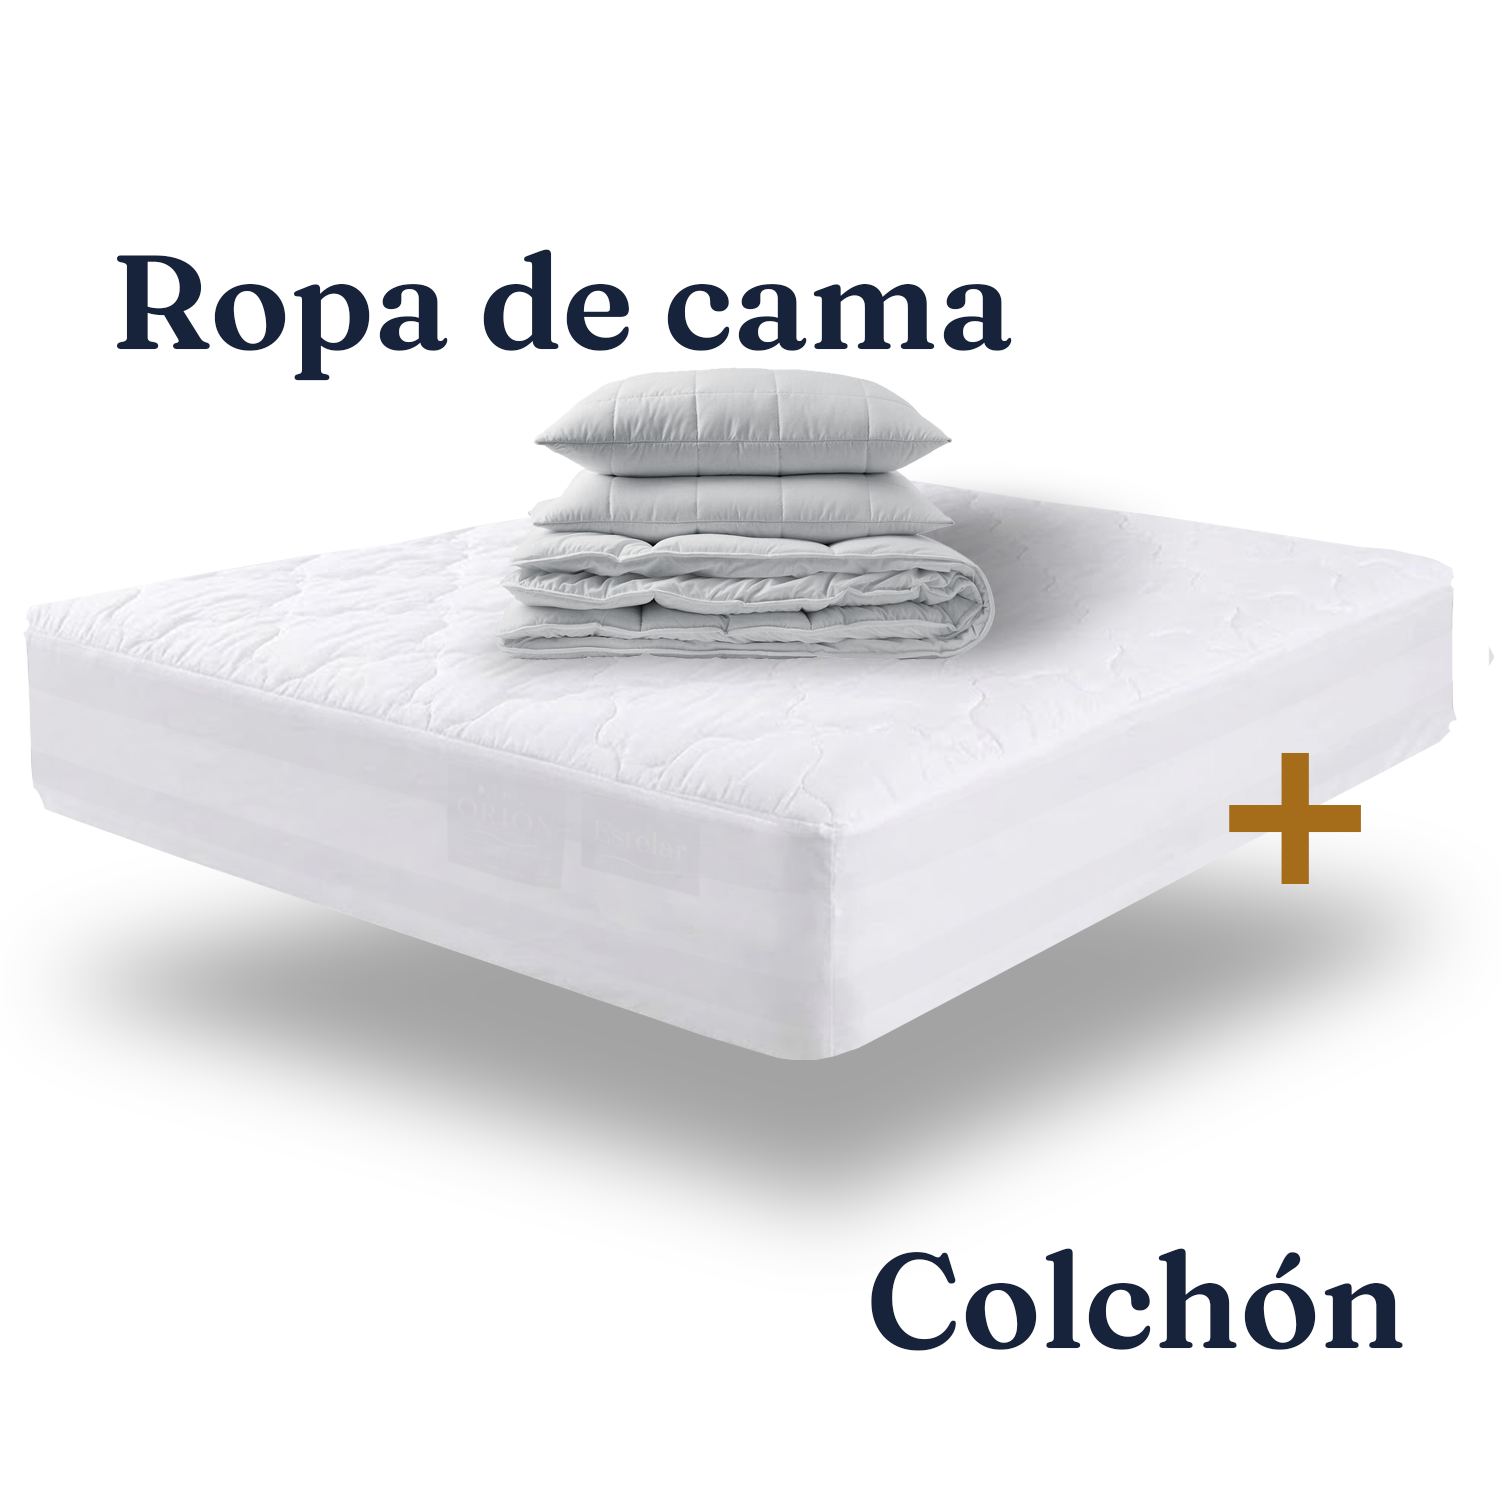
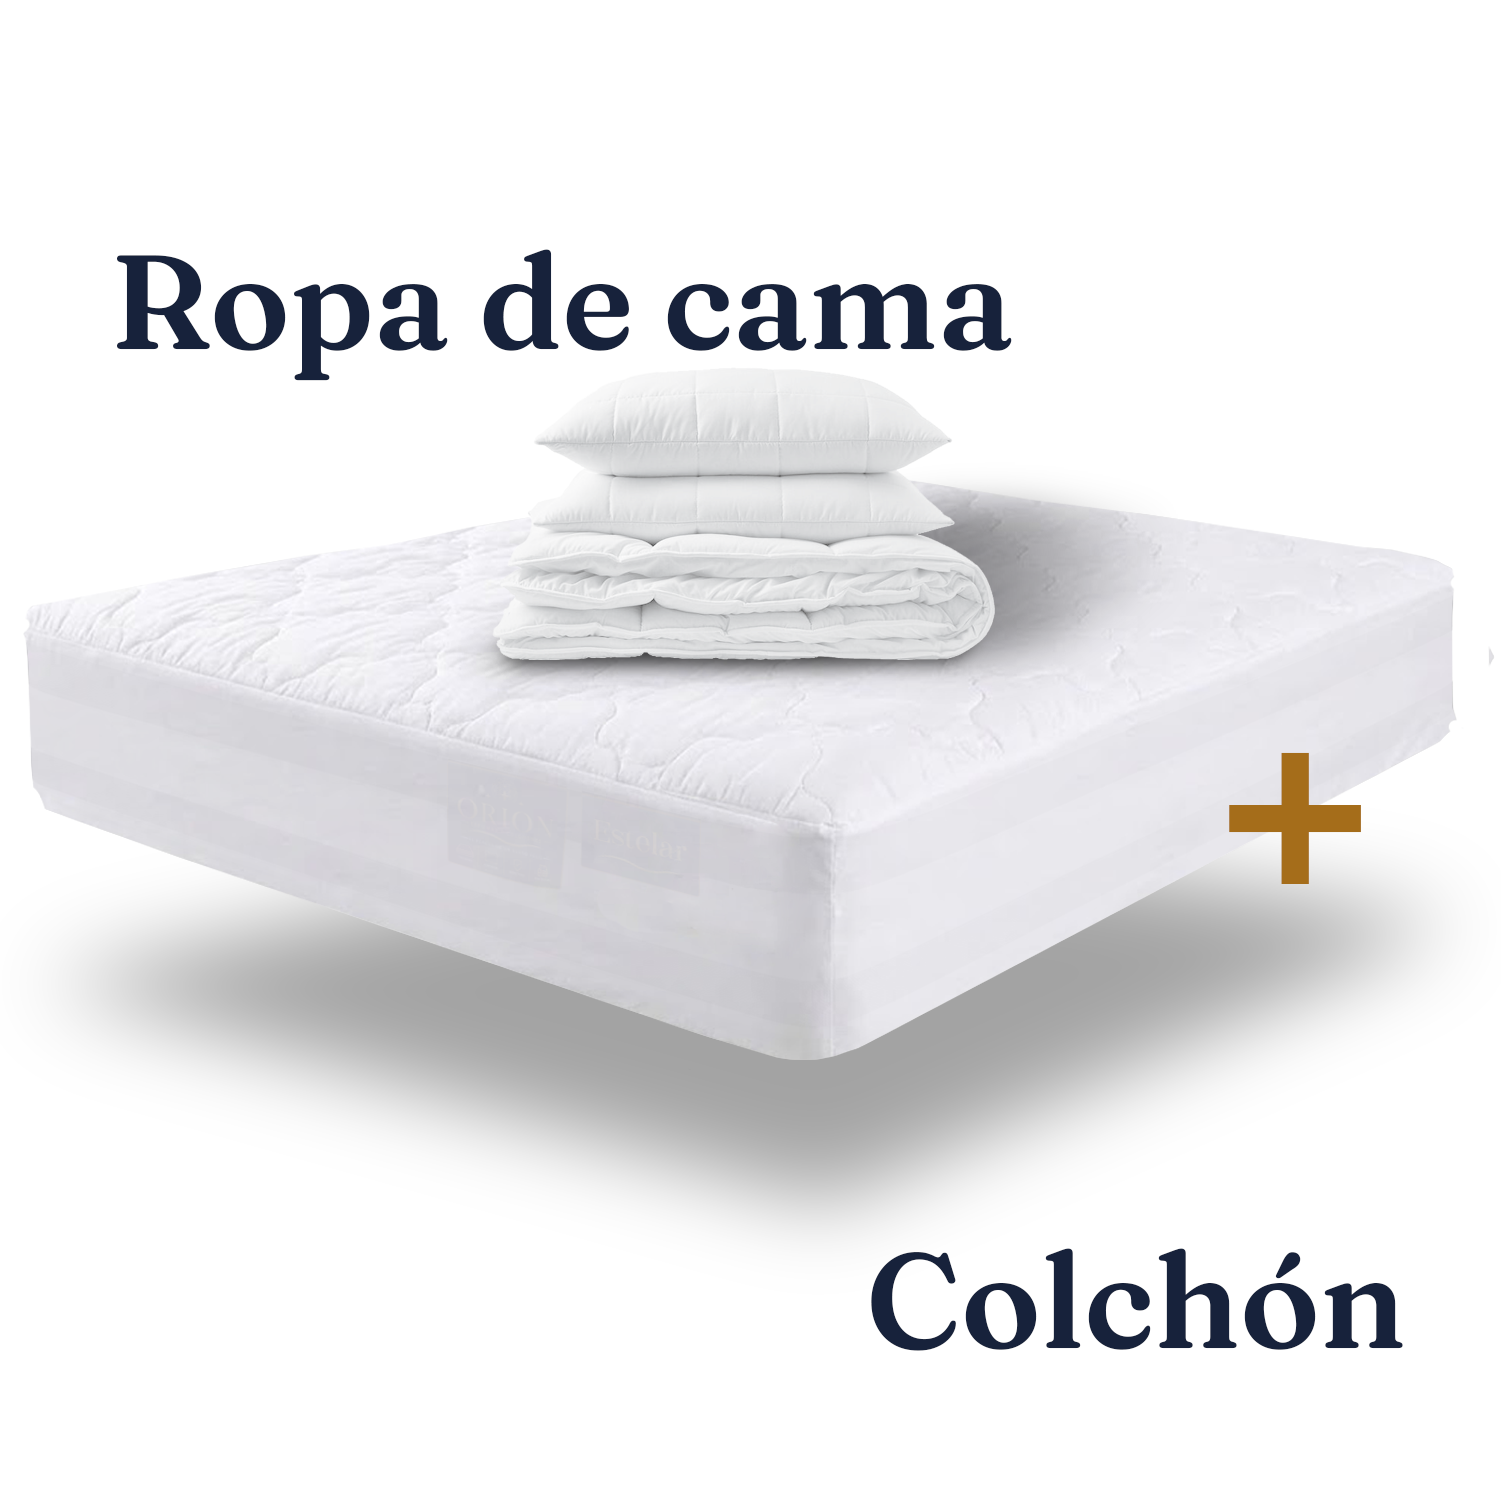
Combos

Changed region(s): [[0.3371, 0.2452, 0.6742, 0.4597]]

diff --git a/js/destacados.js b/js/destacados.js
@@ -33,36 +33,95 @@ window.products = window.products || [];
 
 const PRODUCTOS_DESTACADOS = [
   {
-    id: 'almohada-01', name: 'Siliconadas · Soporte cuello', tag: 'Siliconadas · Soporte cuello', desc: 'Almohada Siliconadas con soporte especial para la zona cervical.', old: 189000, now: 94500, img: 'img/almohadas/almohada-01.png', category: 'Almohadas',
+    id: 'almohada-01', name: 'Almohada Soy 70', tag: 'Almohada siliconada · Soporte cuello', desc: 'Almohada Siliconadas con soporte especial para la zona cervical.', old: 49800, now: 24900, img: 'img/almohadas/almohada-01.png', category: 'Almohadas',
     gallery: ['img/almohadas/almohada-01.png', 'img/almohadas/almohada-02.png'],
     sizes: [
-      { label: "Estándar", now: 94500, old: 189000, medidas: { ancho: "55 cm", largo: "35 cm", alto: null } }
+      { label: "Estándar", now: 24900, old: 49800, medidas: { ancho: "55 cm", largo: "35 cm", alto: null } }
+    ]
+  },
+
+
+  ///////////////   sencilla     //////////////////////////////
+
+
+  {
+    id: 'basecama 100 x 190', name: 'Basecama Royal 100 x 190 cm', tag: 'En madera de pino nueva, textura agradable y fácil limpieza, tapizada en telas de alta resistencia, patas metálicas de 10 cm', desc: 'En madera de pino nueva, textura agradable y fácil limpieza, tapizada en telas de alta resistencia, patas metálicas de 10 cm', old: 858000, now: 429000, img: 'img/basecama/basecama01-por.png', category: 'Bases cama',
+    gallery: ['img/basecama/basecama01-por.png',
+      'img/basecama/basecama01-02.png',
+      'img/basecama/detalle01.png',
+      'img/basecama/detalle.png',
+      'img/basecama/basecama.png',
+      'img/m-altura.png'],
+    sizes: [
+      { label: "100 x 190", now: 429000, old: 858000, medidas: { ancho: "100 cm", largo: "190 cm", alto: "32 cm" } }
     ]
   },
 
   {
-    id: 'basecamaSencilla', name: 'Base cama Sencilla', tag: 'Madera · Multi-medidas', desc: 'En madera de pino nueva,  textura agradable y fácil limpieza, patas metálicas de 10 cm', old: 590000, now: 349000, img: 'img/basecama/basecama-sencilla-02.png', category: 'Bases cama',
-    gallery: ['img/basecama/basecama-sencilla-02.png', 'img/basecama/basecama-sencilla.png', 'img/basecama/detalle.png', 'img/m-altura.png'],
+    id: 'basecama 100 x 200', name: 'Basecama Royal 100 x 200 cm', tag: 'En madera de pino nueva, textura agradable y fácil limpieza, tapizada en telas de alta resistencia, patas metálicas de 10 cm', desc: 'En madera de pino nueva, textura agradable y fácil limpieza, tapizada en telas de alta resistencia, patas metálicas de 10 cm', old: 858000, now: 429000, img: 'img/basecama/basecama01-por.png', category: 'Bases cama',
+    gallery: ['img/basecama/basecama01-por.png',
+      'img/basecama/basecama01-02.png',
+      'img/basecama/detalle01.png',
+      'img/basecama/detalle.png',
+      'img/basecama/basecama.png',
+      'img/m-altura.png'],
     sizes: [
-      { label: "Estándar", now: 94500, old: 189000, medidas: { ancho: "100 cm", largo: "190 cm", alto: "32 cm" } }
+      { label: "100 x 200", now: 429000, old: 858000, medidas: { ancho: "100 cm", largo: "200 cm", alto: "32 cm" } }
+    ]
+  },
+  ///////////////   Doble     /////////////////////////
+  {
+    id: 'basecama 120 x 190', name: 'Basecama Royal 120 x 190 cm', tag: 'En madera de pino nueva, textura agradable y fácil limpieza, tapizada en telas de alta resistencia, patas metálicas de 10 cm', desc: 'En madera de pino nueva, textura agradable y fácil limpieza, tapizada en telas de alta resistencia, patas metálicas de 10 cm', old: 938000, now: 469000, img: 'img/basecama/baseCama02-port.png', category: 'Bases cama',
+    gallery: [
+      'img/basecama/baseCama02-port.png',
+      'img/basecama/basecama02-02.png',
+      'img/basecama/detalle.png',
+      'img/basecama/detalle01.png',
+      'img/basecama/basecama.png',
+      'img/m-altura.png'],
+    sizes: [
+      { label: "120 x 190", now: 469000, old: 938000, medidas: { ancho: "120 cm", largo: "190 cm", alto: "32 cm" } }
+    ]
+  },
+  {
+    id: 'basecama 140 x 190', name: 'Basecama Royal 140 x 190 cm', tag: 'En madera de pino nueva, textura agradable y fácil limpieza, tapizada en telas de alta resistencia, patas metálicas de 10 cm', desc: 'En madera de pino nueva, textura agradable y fácil limpieza, tapizada en telas de alta resistencia, patas metálicas de 10 cm', old: 958000, now: 479000, img: 'img/basecama/baseCama02-port.png', category: 'Bases cama',
+    gallery: ['img/basecama/baseCama02-port.png',
+      'img/basecama/basecama02-02.png',
+      'img/basecama/detalle01.png',
+      'img/basecama/detalle.png',
+      'img/basecama/basecama.png',
+      'img/m-altura.png'],
+    sizes: [
+      { label: "120 x 190", now: 479000, old: 958000, medidas: { ancho: "140 cm", largo: "190 cm", alto: "32 cm" } }
+    ]
+  },
+  ///////////////  Dividida    /////////////////////////
+  {
+    id: 'basecama 0.95 x 140', name: 'Base cama doble dividida', tag: 'Base cama doble dividida. En madera de pino nueva, textura agradable y fácil limpieza, tapizada en telas de alta resistencia, patas metálicas de 10 cm.  ', desc: 'Base cama doble dividida. En madera de pino nueva, textura agradable y fácil limpieza, tapizada en telas de alta resistencia, patas metálicas de 10 cm. <strong> Valor por segmento </strong>', old: 638000, now: 319000, img: 'img/basecama/basecama03-por.png', category: 'Bases cama',
+    gallery: [
+      'img/basecama/basecama03-por.png',
+      'img/basecama/basecama03-02.png',
+      'img/basecama/detalle02.png',
+      'img/basecama/detalle.png',
+      'img/basecama/basecama.png',],
+    sizes: [
+      { label: "Estándar", now: 319000, old: 638000, medidas: { ancho: "0.95 cm", largo: "140 cm", alto: "32 cm" } }
+    ]
+  },
+  {
+    id: 'basecama 0.95 x 160', name: 'Base cama doble dividida', tag: 'Base cama doble dividida. En madera de pino nueva, textura agradable y fácil limpieza, tapizada en telas de alta resistencia, patas metálicas de 10 cm.', desc: 'Base cama doble dividida. En madera de pino nueva, textura agradable y fácil limpieza, tapizada en telas de alta resistencia, patas metálicas de 10 cm. <strong> Valor por segmento </strong>', old: 658000, now: 329000, img: 'img/basecama/basecama03-por.png', category: 'Bases cama',
+    gallery: [
+      'img/basecama/basecama03-por.png',
+      'img/basecama/basecama03-02.png',
+      'img/basecama/detalle02.png',
+      'img/basecama/detalle.png',
+      'img/basecama/basecama.png',],
+    sizes: [
+      { label: "Estándar", now: 329000, old: 658000, medidas: { ancho: "0.95 cm", largo: "160 cm", alto: "32 cm" } }
     ]
   },
 
-  {
-    id: 'basecama-tapizada', name: 'Base cama Semidoble', tag: 'Tapizada · Antideslizante', desc: 'En madera de pino nueva,  textura agradable y fácil limpieza, patas metálicas de 10 cm', old: 790000, now: 495000, img: 'img/basecama/basecama-semidoble-02.png', category: 'Bases cama',
-    gallery: ['img/basecama/basecama-semidoble-02.png', 'img/basecama/basecama-semidoble.png', 'img/basecama/detalle.png', 'img/m-altura.png'],
-    sizes: [
-      { label: "Estándar", now: 94500, old: 189000, medidas: { ancho: "120 cm", largo: "190 cm", alto: "32 cm" } }
-    ]
-  },
 
-  {
-    id: 'basecama-dividida', name: 'Base cama Doble dividida', tag: 'Dividida · Multi-medidas', desc: 'En madera de pino nueva,  textura agradable y fácil limpieza, patas metálicas de 10 cm', old: null, now: 420000, img: 'img/basecama/basecama-doble-02.png', category: 'Bases cama',
-    gallery: ['img/basecama/basecama-doble-02.png', 'img/basecama/basecama-doble.png', 'img/basecama/detalle.png', 'img/m-altura.png'],
-    sizes: [
-      { label: "Estándar", now: 94500, old: 189000, medidas: { ancho: "140 cm", largo: "190 cm", alto: "32 cm" } }
-    ]
-  },
 ];
 
 (function () {

diff --git a/js/combos.js b/js/combos.js
@@ -24,13 +24,15 @@
       desc: 'Colchón Orion Nube, multimedidas, firmeza suabe + base cama',
       old: 2409995, now: 1982990,
       img: 'img/combos/Nube-bc01.png',
-      gallery: ['img/combos/Nube-bc02.png', 'img/combos/Nube-bc01.png', 'img/combos/Nube-bc03.png', 'img/combos/Nube-bc04.png', 'img/combos/BC01.png', 'img/combos/BC02.png', 'img/m-normal.png'],
+      gallery: [
+        'img/combos/Nube-bc02.png',
+        'img/combos/Nube-bc01.png', 'img/combos/Nube-bc03.png', 'img/combos/Nube-bc04.png', 'img/combos/BC01.png', 'img/combos/BC02.png', 'img/m-normal.png'],
       sizes: [
         { label: "Sencillo", now: 1916990, old: 2317995, medidas: { ancho: "100 cm", largo: "190 cm", alto: null } },
         { label: "Semidoble", now: 1982990, old: 2409995, medidas: { ancho: "120 cm", largo: "190 cm", alto: null } },
         { label: "Doble", now: 2257990, old: 2719995, medidas: { ancho: "140 cm", largo: "190 cm", alto: null } },
-        { label: "Queen", now: 2990990, old: 3175995, medidas: { ancho: "160 cm", largo: "190 cm", alto: null } },
-        { label: "King", now: 4120995, old: 3750990, medidas: { ancho: "200 cm", largo: "200 cm", alto: null } }]
+        { label: "Queen", now: 2890990, old: 3175995, medidas: { ancho: "160 cm", largo: "190 cm", alto: null } },
+        { label: "King", now: 3750990, old: 4120995, medidas: { ancho: "200 cm", largo: "200 cm", alto: null } }]
     },
     {
       id: 'ColchonNube+RopaCama',
@@ -88,8 +90,8 @@
       sizes: [
         { label: "Sencillo", now: 1295990, old: 1517995, medidas: { ancho: "100 cm", largo: "190 cm", alto: null } },
         { label: "Semidoble", now: 1455990, old: 1669995, medidas: { ancho: "120 cm", largo: "190 cm", alto: null } },
-        { label: "Doble", now: 1567990, old: 1919995, medidas: { ancho: "140 cm", largo: "190 cm", alto: null } },
-        { label: "Queen", now: 1859990, old: 1875990, medidas: { ancho: "160 cm", largo: "190 cm", alto: null } },
+        { label: "Doble", now: 1568990, old: 1819995, medidas: { ancho: "140 cm", largo: "190 cm", alto: null } },
+        { label: "Queen", now: 1859990, old: 1875995, medidas: { ancho: "160 cm", largo: "190 cm", alto: null } },
         { label: "King", now: 2548990, old: 2570995, medidas: { ancho: "200 cm", largo: "200 cm", alto: null } }]
     },
     {
@@ -97,15 +99,15 @@
       name: 'Combo Colchón Orion Galaxy + ropa de cama',
       tag: 'Colchón Orion Galaxy,  multimedidas, firmeza suabe + almohada siliconada y protector siliconado',
       desc: 'Colchón Orion Galaxy,  multimedidas, firmeza suabe + almohada siliconada y protector siliconado',
-      old: 1669995, now: 1455990,
+      old: 1333770, now: 1280990,
       img: 'img/combos/Galaxy-rc01.png',
       gallery: ['img/combos/Galaxy-rc02.png', 'img/combos/Galaxy-rc01.png', 'img/combos/Galaxy-rc03.png', 'img/combos/Galaxy-rc04.png', 'img/m-normal.png',],
       sizes: [
-        { label: "Sencillo", now: 1295990, old: 1517995, medidas: { ancho: "100 cm", largo: "190 cm", alto: null } },
-        { label: "Semidoble", now: 1455990, old: 1669995, medidas: { ancho: "120 cm", largo: "190 cm", alto: null } },
-        { label: "Doble", now: 1567990, old: 1919995, medidas: { ancho: "140 cm", largo: "190 cm", alto: null } },
-        { label: "Queen", now: 1859990, old: 1875990, medidas: { ancho: "160 cm", largo: "190 cm", alto: null } },
-        { label: "King", now: 2548990, old: 2570995, medidas: { ancho: "200 cm", largo: "200 cm", alto: null } }]
+        { label: "Sencillo", now: 1143990, old: 1193770, medidas: { ancho: "100 cm", largo: "190 cm", alto: null } },
+        { label: "Semidoble", now: 1281990, old: 1333770, medidas: { ancho: "120 cm", largo: "190 cm", alto: null } },
+        { label: "Doble", now: 1408990, old: 1473520, medidas: { ancho: "140 cm", largo: "190 cm", alto: null } },
+        { label: "Queen", now: 1612990, old: 1683040, medidas: { ancho: "160 cm", largo: "190 cm", alto: null } },
+        { label: "King", now: 2212990, old: 2292560, medidas: { ancho: "200 cm", largo: "200 cm", alto: null } }]
     },
     // SuperFlexFoam
     {
@@ -119,7 +121,7 @@
       sizes: [
         { label: "Sencillo", now: 899990, old: 1117995, medidas: { ancho: "100 cm", largo: "190 cm", alto: null } },
         { label: "Semidoble", now: 1019990, old: 1259995, medidas: { ancho: "120 cm", largo: "190 cm", alto: null } },
-        { label: "Doble", now: 1077990, old: 1319995, medidas: { ancho: "140 cm", largo: "190 cm", alto: null } },
+        { label: "Doble", now: 1277990, old: 1319995, medidas: { ancho: "140 cm", largo: "190 cm", alto: null } },
         { label: "Queen", now: 1463990, old: null, medidas: { ancho: "160 cm", largo: "190 cm", alto: null } },
         { label: "King", now: 1707990, old: 1720995, medidas: { ancho: "200 cm", largo: "200 cm", alto: null } }]
     },
@@ -159,13 +161,13 @@
       name: 'Combo Colchón Orion Super Flex Firm + ropa de cama',
       tag: 'Colchón Orion Super Flex Firm + ropa de cama,  multimedidas, firme + base cama',
       desc: 'Colchón Orion Super Flex Firm + ropa de cama,  multimedidas, firme + almohada siliconada y protector siliconado',
-      old: 1309995, now: 948990,
+      old: 943770, now: 895990,
       img: 'img/combos/Sf-firm-rc01.png',
       gallery: ['img/combos/Sf-firm-rc02.png', 'img/combos/Sf-firm-rc01.png', 'img/combos/Sf-firm-rc03.png', 'img/combos/Sf-firm-rc04.png', 'img/m-normal.png',],
       sizes: [
         { label: "Sencillo", now: 796990, old: 843770, medidas: { ancho: "100 cm", largo: "190 cm", alto: null } },
-        { label: "Semidoble", now: 845990, old: 943770, medidas: { ancho: "120 cm", largo: "190 cm", alto: null } },
-        { label: "Doble", now: 10129990, old: 1073520, medidas: { ancho: "140 cm", largo: "190 cm", alto: null } },
+        { label: "Semidoble", now: 895990, old: 943770, medidas: { ancho: "120 cm", largo: "190 cm", alto: null } },
+        { label: "Doble", now: 1012990, old: 1073520, medidas: { ancho: "140 cm", largo: "190 cm", alto: null } },
         { label: "Queen", now: 1166990, old: 1233040, medidas: { ancho: "160 cm", largo: "190 cm", alto: null } },
         { label: "King", now: 1568990, old: 1642560, medidas: { ancho: "200 cm", largo: "200 cm", alto: null } }]
     },

diff --git a/css/styles.css b/css/styles.css
@@ -2054,7 +2054,10 @@
        border-radius: 8px;
    }
 
-
+   .detail-desc strong {
+       font-size: 1.1em;
+       font-weight: 800;
+   }
 
    .related-body {
        padding: 12px 14px 16px;
